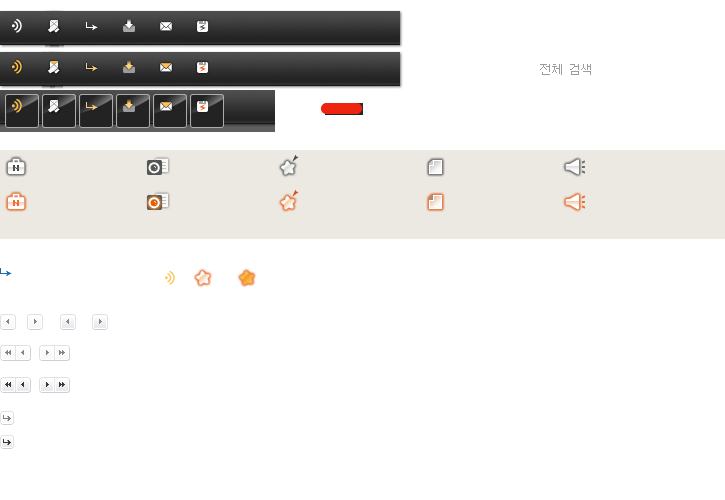
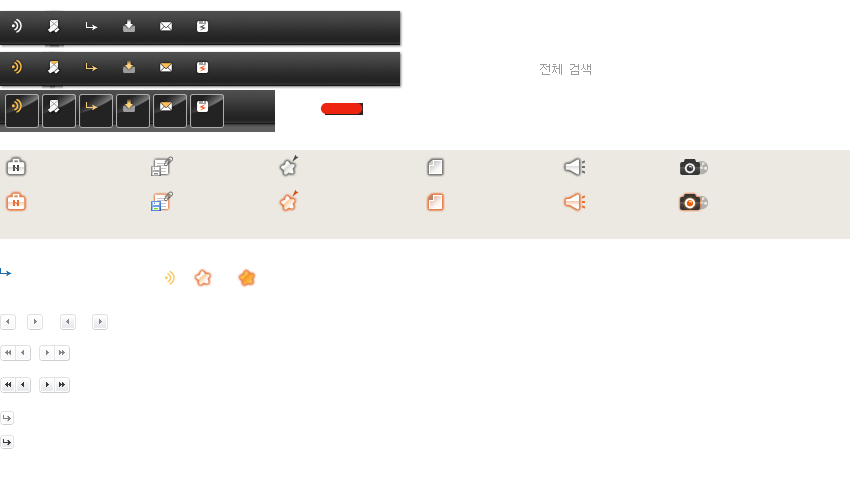
up_load

diff --git a/WebContent/css/layout.css b/WebContent/css/layout.css
@@ -304,10 +304,15 @@ a .btn_apps:hover,
 .up_works .current, 
 .up_works a.current:hover {background: url("../images/header_nico.png") no-repeat -4px -190px; font-weight:bold;}
 
-.up_file a {background: url("../images/header_nico.png") no-repeat -146px -155px; height:22px; padding:4px 0 3px 28px; display:block;}
+.up_pic a {background: url("../images/header_nico.png") no-repeat -146px -155px; height:22px; padding:4px 0 3px 28px; display:block;}
+.up_pic a:hover,
+.up_pic .current, 
+.up_pic a.current:hover {background: url("../images/header_nico.png") no-repeat -146px -190px; font-weight:bold;}
+
+.up_file a {background: url("../images/header_nico.png") no-repeat -677px -155px; height:22px; padding:4px 0 3px 28px; display:block;}
 .up_file a:hover,
 .up_file .current, 
-.up_file a.current:hover {background: url("../images/header_nico.png") no-repeat -146px -190px; font-weight:bold;}
+.up_file a.current:hover {background: url("../images/header_nico.png") no-repeat -677px -190px; font-weight:bold;}
 
 .up_event a {background: url("../images/header_nico.png") no-repeat -279px -155px; height:22px; padding:4px 0 3px 22px; display:block;}
 .up_event a:hover,
